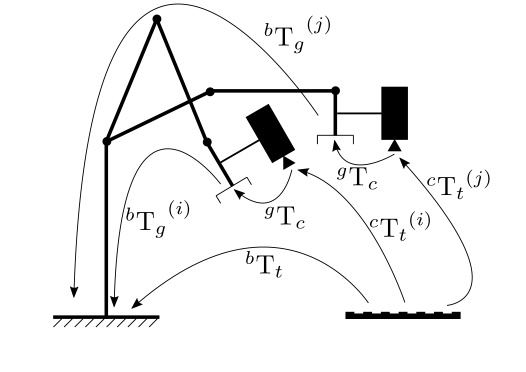
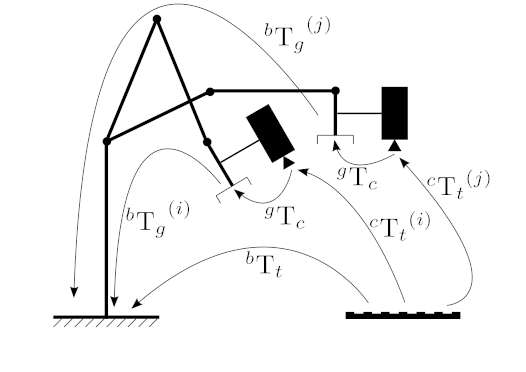
Add a white background for images which have a transparent background in the calib3d module. See:   - https://github.com/opencv/opencv/pull/28450   - https://github.com/opencv/opencv/pull/28426

diff --git a/modules/calib3d/include/opencv2/calib3d.hpp b/modules/calib3d/include/opencv2/calib3d.hpp
@@ -220,7 +220,7 @@ Z_w \\
 
 The following figure illustrates the pinhole camera model.
 
-![Pinhole camera model](pics/pinhole_camera_model.png)
+![Pinhole camera model](pics/pinhole_camera_model.png) { width=70% }
 
 Real lenses usually have some distortion, mostly radial distortion, and slight tangential distortion.
 So, the above model is extended as:
@@ -448,7 +448,7 @@ The inverse of an homogeneous transformation matrix is then:
 
 One can note that the inverse of a 3x3 rotation matrix is directly its matrix transpose.
 
-![Perspective projection, from object to camera frame](pics/pinhole_homogeneous_transformation.png)
+![Perspective projection, from object to camera frame](pics/pinhole_homogeneous_transformation.jpg) { width=70% }
 
 This figure summarizes the whole process. The object pose returned for instance by the @ref solvePnP function
 or pose from fiducial marker detection is this \f$ {}^{c}\mathbf{T}_o \f$ transformation.
@@ -1012,7 +1012,7 @@ Check @ref tutorial_homography "the corresponding tutorial" for more details
 
 /** @brief Finds an object pose \f$ {}^{c}\mathbf{T}_o \f$ from 3D-2D point correspondences:
 
-![Perspective projection, from object to camera frame](pics/pinhole_homogeneous_transformation.png){ width=50% }
+![Perspective projection, from object to camera frame](pics/pinhole_homogeneous_transformation.jpg){ width=50% }
 
 @see @ref calib3d_solvePnP
 
@@ -1085,7 +1085,7 @@ CV_EXPORTS_W bool solvePnP( InputArray objectPoints, InputArray imagePoints,
 
 /** @brief Finds an object pose \f$ {}^{c}\mathbf{T}_o \f$ from 3D-2D point correspondences using the RANSAC scheme to deal with bad matches.
 
-![Perspective projection, from object to camera frame](pics/pinhole_homogeneous_transformation.png){ width=50% }
+![Perspective projection, from object to camera frame](pics/pinhole_homogeneous_transformation.jpg){ width=50% }
 
 @see @ref calib3d_solvePnP
 
@@ -1147,7 +1147,7 @@ CV_EXPORTS_W bool solvePnPRansac( InputArray objectPoints, InputArray imagePoint
 
 /** @brief Finds an object pose \f$ {}^{c}\mathbf{T}_o \f$ from **3** 3D-2D point correspondences.
 
-![Perspective projection, from object to camera frame](pics/pinhole_homogeneous_transformation.png){ width=50% }
+![Perspective projection, from object to camera frame](pics/pinhole_homogeneous_transformation.jpg){ width=50% }
 
 @see @ref calib3d_solvePnP
 
@@ -1242,7 +1242,7 @@ CV_EXPORTS_W void solvePnPRefineVVS( InputArray objectPoints, InputArray imagePo
 
 /** @brief Finds an object pose \f$ {}^{c}\mathbf{T}_o \f$ from 3D-2D point correspondences.
 
-![Perspective projection, from object to camera frame](pics/pinhole_homogeneous_transformation.png){ width=50% }
+![Perspective projection, from object to camera frame](pics/pinhole_homogeneous_transformation.jpg){ width=50% }
 
 @see @ref calib3d_solvePnP
 
